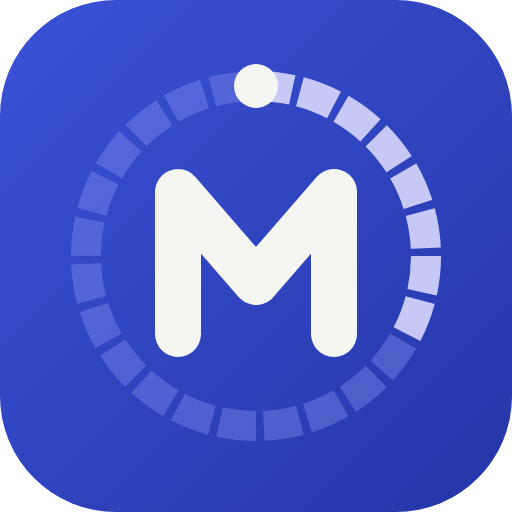
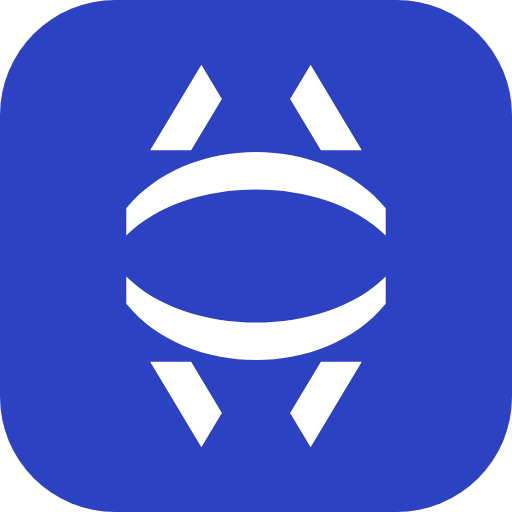
Nova marca "lente" + Home com clima e transporte (#33)
* Nova marca "lente" e Home com clima e transporte

- Marca: dois arcos que afinam nas pontas (pálpebra aberta) e quatro
  colchetes que enquadram a cidade; rotação aplicada nos caminhos, colchetes
  mais grossos e afastados dos arcos para ler em 16–20 px. MarcaMonitora sem
  a prop sinal; ícones do PWA em #2C42C2 (arredondado, quadrado para a
  máscara do sistema e maskable com margem segura de 20%); manifesto e
  DESIGN.md atualizados.
- Home: cartão do clima com a atmosfera compacta (temperatura, condição e
  chuva prevista só se a previsão trouxer) e cartão do transporte com a
  chegada estimada da linha/estação salvas (respeita o sentido salvo, mostra
  fonte e idade do dado); sem dado salvo, os cartões viram convites. Atalho
  discreto para a operação da cidade. Lado a lado no desktop; tempo-limite
  para não ficar preso no carregando.

Claude-Session: https://claude.ai/code/session_0155MRFdRGK3L5RWqqdaPLJp

* Chegada pelo trajeto oficial: fim do "Sem estimativa" com ônibus a caminho

A estimativa em linha reta (/chegada) só conta veículos que se aproximaram
entre duas leituras de 60 s; ônibus parados em estação, sinal ou trânsito
ficavam de fora e a tela mostrava "Sem estimativa agora" (caso relatado:
linha 50 em Terminal Alvorada, sentido Centro Olímpico, com dois BRT a
caminho). Agora todo veículo do sentido casado ao trajeto e ainda antes da
estação entra: pela sequência de paradas (GTFS-Realtime) quando houver,
[…]

Changed region(s): [[0.125, 0.125, 0.875, 0.875]]

diff --git a/app/ui/Home.tsx b/app/ui/Home.tsx
@@ -1,69 +1,111 @@
 "use client";
+/**
+ * Home: abrir o app já responde "vai chover?" e "quanto falta pro meu ônibus?".
+ * Dois cartões no material do app (atmosfera do clima + vidro) e um atalho discreto para a operação da cidade.
+ * Só dados que já existem: local salvo do clima → /tempo; estação e linha salvas da Mobilidade → /chegada (+ /veiculos para o sentido).
+ * Nada inventado: campo ausente some; a chegada é sempre "estimada" e mostra a fonte e a idade do dado.
+ */
 import Link from "next/link";
 import { useEffect, useState } from "react";
-import { CloudSun, BusFront, ChevronRight, Activity } from "lucide-react";
+import { BusFront, ChevronRight, CloudSun } from "lucide-react";
 import { MarcaMonitora } from "./Geometria";
-import { IconeTempo } from "./estados";
-import { J, get, ler } from "./util";
+import { ErrorState, LastUpdated, Skel } from "./estados";
+import { J, get, horaLocal, ler } from "./util";
+import WeatherAtmosphere, { atmosferaDe } from "../clima/atmosfera/WeatherAtmosphere";
+import { mesmoDestino } from "../../src/lib/trajeto";
 
 export default function Home() {
+  const [pronto, setPronto] = useState(false);
   const [local, setLocal] = useState<J | null>(null);
-  const [tempo, setTempo] = useState<J | null>(null);
-  const [mob, setMob] = useState<{ ponto: J | null; linha: string | null }>({ ponto: null, linha: null });
+  const [mob, setMob] = useState<{ ponto: J | null; linha: string | null; sentido: string | null; modo: string | null }>({ ponto: null, linha: null, sentido: null, modo: null });
 
   useEffect(() => {
-    const l = ler<J | null>("monitora:clima:local", null);
-    setLocal(l);
-    setMob({ ponto: ler<J | null>("monitora:mob:ponto", null), linha: ler<string | null>("monitora:mob:linha", null) });
-    if (l) get(`/tempo?lat=${l.lat}&lng=${l.lng}`).then(setTempo);
+    setLocal(ler<J | null>("monitora:clima:local", null));
+    setMob({
+      ponto: ler<J | null>("monitora:mob:ponto", null), linha: ler<string | null>("monitora:mob:linha", null),
+      sentido: ler<string | null>("monitora:mob:sentido", null), modo: ler<string | null>("monitora:mob:modo", null),
+    });
+    setPronto(true);
   }, []);
-  const a = tempo?.calculado?.agora;
 
   return (
-    <main className="page">
-      <div className="row" style={{ gap: 8, color: "var(--text)" }}><MarcaMonitora size={24} /><span className="t-head">Monitora</span></div>
-      <h1 className="t-hero" style={{ margin: "28px 0 6px" }}>O que você quer fazer?</h1>
-      <p className="t-body muted" style={{ margin: 0 }}>Clima, transporte e a operação da cidade agora, com dados abertos.</p>
-
-      <div className="actions">
-        <Link href="/clima" className="action appear">
-          <span className="ico" style={{ background: "color-mix(in srgb, var(--accent) 14%, transparent)", color: "var(--accent)" }}><CloudSun aria-hidden /></span>
-          <span style={{ flex: 1 }}><div className="t-title">Ver o clima</div><div className="t-cap">Agora, próximas horas e próximos dias</div></span>
-          <ChevronRight aria-hidden style={{ color: "var(--text-3)" }} />
-        </Link>
-        <Link href="/mobilidade" className="action appear">
-          <span className="ico" style={{ background: "color-mix(in srgb, var(--text) 14%, transparent)", color: "var(--text)" }}><BusFront aria-hidden /></span>
-          <span style={{ flex: 1 }}><div className="t-title">Acompanhar transporte</div><div className="t-cap">BRT e ônibus ao vivo, chegada estimada</div></span>
-          <ChevronRight aria-hidden style={{ color: "var(--text-3)" }} />
-        </Link>
-        <Link href="/monitor" className="action appear">
-          <span className="ico" style={{ background: "color-mix(in srgb, var(--accent) 14%, transparent)", color: "var(--accent)" }}><Activity aria-hidden /></span>
-          <span style={{ flex: 1 }}><div className="t-title">Ver a operação agora</div><div className="t-cap">Frota observada, qualidade dos dados e chuva</div></span>
-          <ChevronRight aria-hidden style={{ color: "var(--text-3)" }} />
-        </Link>
+    <main className="page home">
+      <div className="home-marca"><MarcaMonitora size={26} /><span>Monitora</span></div>
+      <div className="home-cards">
+        {!pronto ? <><Skel h={188} r={24} /><Skel h={150} r={24} /></> : (
+          <>
+            {local ? <CartaoClima local={local} /> : (
+              <Link href="/clima" className="hc hc-convite appear" aria-label="Ver o clima perto de você">
+                <CloudSun aria-hidden /><span><b>Ver o clima perto de você</b><small>Agora, próximas horas e a semana</small></span><ChevronRight aria-hidden className="seta" />
+              </Link>
+            )}
+            {mob.ponto && mob.linha ? <CartaoTransporte {...mob} ponto={mob.ponto} linha={mob.linha} /> : (
+              <Link href="/mobilidade" className="hc hc-convite appear" style={{ animationDelay: "60ms" }} aria-label="Acompanhar um ônibus ou BRT">
+                <BusFront aria-hidden /><span><b>Acompanhar um ônibus ou BRT</b><small>Chegada estimada na sua estação</small></span><ChevronRight aria-hidden className="seta" />
+              </Link>
+            )}
+          </>
+        )}
       </div>
-
-      {(local || mob.ponto) && (
-        <section className="section">
-          <span className="t-label">Na sua região</span>
-          <div className="surface" style={{ padding: "4px 16px" }}>
-            {local && (
-              <Link href="/clima" className="list-item" aria-label={`Clima em ${local.nome}`}>
-                <span className="ico"><IconeTempo icone={a?.descricao?.icone} dia={a?.dia} /></span>
-                <span className="main"><div className="t-head">{local.nome}</div><div className="t-cap">{a ? a.descricao?.texto ?? "" : "Carregando clima…"}</div></span>
-                <span className="t-title num">{a?.temperaturaC == null ? "" : `${Math.round(a.temperaturaC)}°`}</span>
-              </Link>
-            )}
-            {mob.ponto && (
-              <Link href="/mobilidade" className="list-item">
-                <span className="ico" style={{ color: "var(--text)" }}><BusFront aria-hidden /></span>
-                <span className="main"><div className="t-head">{mob.linha ? `Continuar: linha ${mob.linha}` : mob.ponto.nome}</div><div className="t-cap">{mob.linha ? mob.ponto.nome : "Última estação consultada"}</div></span>
-                <ChevronRight aria-hidden style={{ color: "var(--text-3)" }} />
-              </Link>
-            )}
-          </div>
-        </section>
-      )}
+      <Link href="/monitor" className="home-op">Operação da cidade <ChevronRight aria-hidden /></Link>
     </main>
+  );
+}
+
+function CartaoClima({ local }: { local: J }) {
+  const [t, setT] = useState<J | null>(null);
+  useEffect(() => { get(`/tempo?lat=${local.lat}&lng=${local.lng}`, AbortSignal.timeout(15_000)).then(setT); }, [local]);
+  if (!t) return <Skel h={188} r={24} />;
+  if (t.erro) return <div className="hc"><ErrorState texto="Clima indisponível agora." /></div>;
+  const a = t.calculado?.agora, temp = a?.temperaturaC;
+  const tipo = atmosferaDe(a?.descricao?.icone, a?.dia);
+  // contexto curto: só se a previsão trouxer chuva provável nas próximas 12 h
+  const chuva = (t.calculado?.proximasHoras ?? []).slice(1, 13).find((h: J) => (h.probabilidadeChuvaPct ?? 0) >= 50);
+  const texto = a?.descricao?.texto ?? null;
+  return (
+    <Link href="/clima" className={`hc hc-clima on-${tipo} appear`}
+      aria-label={`Clima em ${local.nome}${temp != null ? `, ${Math.round(temp)} graus` : ""}${texto ? `, ${texto.toLowerCase()}` : ""}${chuva ? `, chuva prevista por volta das ${horaLocal(chuva.inicio).slice(0, 2)} horas` : ""}`}>
+      <WeatherAtmosphere tipo={tipo} />
+      <div className="hc-corpo">
+        <span className="hc-rot">{local.nome}</span>
+        <div className="hc-linha"><span className="hc-num num">{temp == null ? "—" : `${Math.round(temp)}°`}</span>{texto && <span className="hc-txt">{texto}</span>}</div>
+        {chuva && <span className="hc-ctx">Chuva prevista ~{horaLocal(chuva.inicio).slice(0, 2)}h · {chuva.probabilidadeChuvaPct}%</span>}
+      </div>
+    </Link>
+  );
+}
+
+function CartaoTransporte({ ponto, linha, sentido, modo }: { ponto: J; linha: string; sentido: string | null; modo: string | null }) {
+  const [d, setD] = useState<J | null>(null);
+  useEffect(() => {
+    let vivo = true;
+    const carregar = async () => {
+      const [c, v] = await Promise.all([
+        get(`/chegada?linha=${encodeURIComponent(linha)}&lat=${ponto.lat}&lng=${ponto.lng}`, AbortSignal.timeout(15_000)),
+        sentido ? get(`/linhas/${encodeURIComponent(linha)}/veiculos${modo ? `?modo=${modo}` : ""}`, AbortSignal.timeout(15_000)) : Promise.resolve(null),
+      ]);
+      if (vivo) setD({ c, v, em: Date.now() });
+    };
+    carregar();
+    const i = setInterval(() => { if (!document.hidden) carregar(); }, 20_000);
+    return () => { vivo = false; clearInterval(i); };
+  }, [ponto, linha, sentido, modo]);
+  if (!d) return <Skel h={150} r={24} />;
+  if (d.c?.erro) return <div className="hc"><ErrorState texto="Transporte indisponível agora." /></div>;
+  // sentido salvo: só veículos daquele destino (mesma regra da Mobilidade)
+  const ids = sentido && d.v?.observado ? new Set((d.v.observado as J[]).filter((x) => mesmoDestino(x.destino, sentido)).map((x) => `${x.fonte}:${x.veiculo}`)) : null;
+  const chegadas: J[] = d.c?.calculado?.chegadas ?? [];
+  const prox = ids ? chegadas.find((x) => ids.has(`${x.fonte}:${x.veiculo}`)) ?? null : d.c?.calculado?.proxima ?? null;
+  const min = prox?.etaMin != null ? Math.max(1, Math.round(prox.etaMin)) : null;
+  return (
+    <Link href="/mobilidade" className="hc hc-mob appear" style={{ animationDelay: "60ms" }}
+      aria-label={`Linha ${linha}${sentido ? `, sentido ${sentido}` : ""}, em ${ponto.nome}: ${min != null ? `chegada estimada em ${min} minutos` : "sem estimativa agora"}`}>
+      <div className="hc-topo"><span className="line-badge">{linha}</span><span className="hc-rot">{sentido ? `→ ${sentido}` : ponto.nome}</span></div>
+      <div className="hc-linha">
+        {min != null ? <><span className="hc-num num">{min}</span><span className="hc-txt">min</span><span className="hc-sub">chegada estimada em {ponto.nome}</span></>
+          : <span className="hc-txt hc-sem">Nenhum veículo se aproximando de {ponto.nome} agora</span>}
+      </div>
+      <LastUpdated em={prox?.ultimaLeitura ?? d.em} fonte="GPS SMTR" velhoS={60} />
+    </Link>
   );
 }

diff --git a/app/globals.css b/app/globals.css
@@ -666,3 +666,41 @@ button { cursor: pointer; background: none; border: 0; padding: 0; }
 .proximas li { display: flex; justify-content: space-between; gap: 10px; padding: 6px 0 6px 12px; position: relative; font: 500 14px var(--font-ui); }
 .proximas li::before { content: ""; position: absolute; left: -6px; top: 50%; width: 10px; height: 10px; margin-top: -5px; border-radius: 50%; background: var(--surface); box-shadow: inset 0 0 0 2px var(--ultramarine); }
 .proximas li b { font: 600 14px var(--font-num); color: var(--text-2); white-space: nowrap; }
+
+/* ---------- 15. home ---------- */
+.home-marca { display: flex; align-items: center; gap: 9px; color: var(--text); font: 650 18px var(--font-ui); letter-spacing: -.02em; }
+.home-cards { display: grid; gap: 12px; margin-top: 22px; }
+.hc { position: relative; isolation: isolate; overflow: hidden; display: block; border-radius: 24px; padding: 18px 20px; color: var(--text);
+  background: var(--glass-strong); backdrop-filter: var(--glass-blur); -webkit-backdrop-filter: var(--glass-blur);
+  box-shadow: inset 0 1px 0 rgba(255,255,255,.18), inset 0 0 0 1px var(--hairline), 0 14px 30px -22px rgba(8,10,16,.5);
+  transition: transform var(--dur-interact) var(--spring); }
+.hc:active { transform: scale(.985); }
+.hc:focus-visible { outline: 3px solid var(--ultramarine); outline-offset: 3px; }
+.hc-rot { font: 600 13px var(--font-ui); color: var(--text-2); letter-spacing: .01em; }
+.hc-linha { display: flex; align-items: baseline; gap: 10px; margin-top: 6px; flex-wrap: wrap; }
+.hc-num { font: 600 56px/.95 var(--font-num); letter-spacing: -.055em; }
+.hc-txt { font: 500 16px/1.3 var(--font-ui); }
+.hc-sem { color: var(--text-2); font-size: 15px; }
+.hc-sub { flex-basis: 100%; font: 450 13.5px var(--font-ui); color: var(--text-2); }
+.hc-ctx { display: inline-block; margin-top: 10px; padding: 5px 10px; border-radius: 999px; font: 600 12.5px var(--font-ui);
+  background: rgba(255,255,255,.18); }
+/* clima: a mesma atmosfera do hero, compacta; texto branco */
+.hc-clima { min-height: 172px; color: #fff; background: radial-gradient(130% 90% at 88% -6%, var(--atm-a) 0%, transparent 62%), linear-gradient(168deg, var(--atm-b) 0%, var(--atm-c) 100%); }
+.hc-clima .atm { position: absolute; inset: 0; z-index: -1; }
+.hc-clima .hc-rot { color: rgba(255,255,255,.82); }
+.hc-corpo { position: relative; display: flex; flex-direction: column; min-height: 136px; }
+.hc-corpo .hc-ctx { align-self: flex-start; margin-top: auto; }
+.hc-mob .hc-topo { display: flex; align-items: center; gap: 10px; }
+.hc-mob .hc-linha { margin: 10px 0 8px; }
+/* convite (sem dado salvo) */
+.hc-convite { display: flex; align-items: center; gap: 14px; min-height: 88px; }
+.hc-convite > svg:first-child { width: 26px; height: 26px; color: var(--ultramarine); flex: none; }
+.hc-convite span { flex: 1; display: grid; gap: 3px; }
+.hc-convite b { font: 600 16.5px var(--font-ui); letter-spacing: -.01em; }
+.hc-convite small { font: 450 13.5px var(--font-ui); color: var(--text-2); }
+.hc-convite .seta { color: var(--text-3); width: 20px; height: 20px; }
+.home-op { display: inline-flex; align-items: center; gap: 4px; margin-top: 18px; padding: 8px 2px; font: 600 14px var(--font-ui); color: var(--text-2); }
+.home-op svg { width: 16px; height: 16px; }
+.home-op:focus-visible { outline: 2px solid var(--ultramarine); outline-offset: 2px; border-radius: 6px; }
+@media (min-width: 960px) { .home-marca { display: none; } .home-cards { margin-top: 0; } }
+@media (min-width: 760px) { .home { max-width: 880px; } .home-cards { grid-template-columns: 1fr 1fr; align-items: stretch; } .home-cards > * { min-height: 188px; } }

diff --git a/app/mobilidade/MobilidadeApp.tsx b/app/mobilidade/MobilidadeApp.tsx
@@ -173,8 +173,12 @@ export default function MobilidadeApp() {
 
   // chegadas do sentido escolhido (a estimativa é por veículo; filtramos pelos veículos do sentido)
   const idsSentido = new Set(lista.map((v) => v.id));
-  const chegadas: J[] = (chegada?.calculado?.chegadas ?? []).filter((c: J) => !sentidoValido || idsSentido.has(`${c.fonte}:${c.veiculo}`));
-  const prox: J | null = sentidoValido ? chegadas[0] ?? null : chegada?.calculado?.proxima ?? null;
+  const chegadasLinhaReta: J[] = (chegada?.calculado?.chegadas ?? []).filter((c: J) => !sentidoValido || idsSentido.has(`${c.fonte}:${c.veiculo}`));
+  // Chegada pelo TRAJETO (não depende de o veículo estar andando na hora): todo veículo do sentido, casado ao trajeto
+  // oficial e ainda ANTES da estação, entra com o tempo programado do trecho; com viagem oficial (GTFS-Realtime),
+  // usa a sequência de paradas. A estimativa em linha reta da /chegada fica só para quem não tem trajeto.
+  const chegadas: J[] = useMemo(() => mesclarChegadas(ponto, lista, trajetoVisivel, chegadasLinhaReta), [ponto, lista, trajetoVisivel, chegada]); // eslint-disable-line react-hooks/exhaustive-deps
+  const prox: J | null = chegadas[0] ?? null;
   const ehBrt = ponto?.fonte === "brt" || lista.some((v) => v.fonte === "brt");
   const viagem = useMemo(() => viagemAte(ponto, sentidoValido, paradasLinha, desce), [ponto, sentidoValido, paradasLinha, desce]);
   // espera no ponto de embarque: chegada do próximo ônibus ou, no terminal de origem, a próxima saída
@@ -821,4 +825,27 @@ function Destino({ v, valor, onChange, espera }: { v: Viagem; valor: string | nu
       {e && <p className="t-meta" style={{ margin: "6px 2px 0" }}>Viagem no ritmo programado da linha (GTFS){espera == null ? "; sem estimativa de espera agora" : ""}.</p>}
     </div>
   );
+}
+
+/** Chegadas na estação: pelo trajeto oficial (preferido) + linha reta (/chegada) para quem ficar de fora; ordenadas. */
+function mesclarChegadas(ponto: Ponto | null, frota: J[], trajetos: Trajeto[] | null | undefined, linhaReta: J[]): J[] {
+  if (!ponto) return linhaReta;
+  const porId = new Map<string, J>(), avaliados = new Set<string>();
+  for (const v of frota) {
+    if (v.routeState !== "ON_ROUTE" && v.routeState !== "UNCERTAIN") continue;
+    // 1) viagem oficial: a estação está na lista de próximas paradas
+    const naSeq = (v.viagem?.proximas as J[] | undefined)?.find((p) => p.estacao === ponto.id || p.nome === ponto.nome);
+    if (naSeq) { avaliados.add(v.id); porId.set(v.id, { fonte: v.fonte, veiculo: v.veiculo, etaMin: naSeq.min, ultimaLeitura: v.em, metodo: "paradas" }); continue; }
+    // 2) trajeto oficial no ritmo programado
+    const t = (trajetos ?? []).find((x) => x.shapeId && x.shapeId === v.shapeId);
+    if (!t?.duracaoProgramadaS) continue;
+    const acc = acumulado(t.coords), total = acc[acc.length - 1];
+    const est = projetar(ponto.lat, ponto.lng, t.coords, acc), eu = projetar(v.lat, v.lng, t.coords, acc);
+    if (!est || !eu || est.distM > 300) continue; // estação fora deste trajeto
+    avaliados.add(v.id);
+    if (eu.s > est.s + 50) continue; // já passou da estação
+    porId.set(v.id, { fonte: v.fonte, veiculo: v.veiculo, etaMin: ((est.s - eu.s) / total) * t.duracaoProgramadaS / 60, ultimaLeitura: v.em, distanciaM: Math.round(est.s - eu.s), metodo: "trajeto" });
+  }
+  for (const c of linhaReta) { const id = `${c.fonte}:${c.veiculo}`; if (!porId.has(id) && !avaliados.has(id)) porId.set(id, { ...c, metodo: "linha-reta" }); }
+  return [...porId.values()].filter((c) => c.etaMin != null).sort((a, b) => a.etaMin - b.etaMin);
 }

diff --git a/app/ui/Geometria.tsx b/app/ui/Geometria.tsx
@@ -1,16 +1,23 @@
 /**
  * Linguagem geométrica do Monitora: círculos, arcos e interseções em módulos.
- * Marca: dois círculos que se cruzam (lugar + movimento) e um arco de trajeto; o ponto de sinal (Lime) é o "agora".
+ * Marca: "lente" — dois arcos que afinam nas pontas (pálpebra aberta: observar) e quatro colchetes que enquadram a cidade.
  * Órbita: arcos concêntricos para carregamento — gira devagar (interação), para com reduced-motion.
  */
-/** Marca do Monitora: mostrador de 24 h em gomos (o "relógio do céu"), um M de traço único (trajeto) e o ponto "agora". */
-export function MarcaMonitora({ size = 22, sinal = true }: { size?: number; sinal?: boolean }) {
+/**
+ * Marca do Monitora — "lente": dois arcos que afinam nas pontas formam uma pálpebra aberta (observar)
+ * e quatro colchetes por fora enquadram a cidade. Simétrica nos dois eixos; viewBox 120; cor = currentColor.
+ * Mesmos caminhos de public/icone.svg (lá em branco, escala 0,8, sobre #2C42C2).
+ */
+export const MARCA_CAMINHOS = [
+  "M 98 46 C 80 24 40 24 22 46 L 22 54 C 40 36 80 36 98 54Z",
+  "M 98 74 C 80 96 40 96 22 74 L 22 66 C 40 84 80 84 98 66Z",
+  "M 76 4 L 91 29 L 79 29 L 70 14Z M 76 116 L 91 91 L 79 91 L 70 106Z M 44 4 L 29 29 L 41 29 L 50 14Z M 44 116 L 29 91 L 41 91 L 50 106Z",
+] as const;
+
+export function MarcaMonitora({ size = 22 }: { size?: number }) {
   return (
-    <svg width={size} height={size} viewBox="0 0 24 24" fill="none" aria-hidden>
-      <circle cx="12" cy="12" r="9.6" stroke="currentColor" strokeOpacity=".3" strokeWidth="2" strokeDasharray="3.4 1.6" transform="rotate(-90 12 12)" />
-      <circle cx="12" cy="12" r="9.6" stroke="currentColor" strokeWidth="2" strokeDasharray="3.4 1.6 3.4 1.6 3.4 1.6 3.4 60" transform="rotate(-90 12 12)" />
-      <path d="M8.2 15.6V8.6L12 13l3.8-4.4v7" stroke="currentColor" strokeWidth="2.2" strokeLinecap="round" strokeLinejoin="round" />
-      {sinal && <circle cx="12" cy="2.4" r="1.6" fill="var(--accent)" />}
+    <svg width={size} height={size} viewBox="0 0 120 120" fill="currentColor" aria-hidden>
+      {MARCA_CAMINHOS.map((d) => <path key={d} d={d} />)}
     </svg>
   );
 }

diff --git a/docs/DESIGN.md b/docs/DESIGN.md
@@ -3,6 +3,14 @@
 **Espaço:** mundo (mapa) embaixo · material (vidro) no meio · informação (tipografia) em cima.
 **Ordem:** conteúdo → material → movimento. Cor comunica estado; a interface é neutra.
 
+## Marca
+- **"Lente":** dois arcos deitados que afinam nas pontas formam uma pálpebra aberta (observar); quatro colchetes por fora,
+  em cima e embaixo, enquadram a cidade. Simétrica nos dois eixos, sem ponto central. Caminhos em `MARCA_CAMINHOS`
+  (`app/ui/Geometria.tsx`), viewBox 120, `currentColor`. Colchetes engrossados e afastados dos arcos para ler em 16–20 px.
+- **Ícone do app:** fundo `#2C42C2`, cantos `rx=27` (viewBox 120), marca branca em escala 0,8 centralizada (`public/icone.svg`).
+  PNG: `icone-512-arredondado.png`, `apple-touch-icon.png` (quadrado, o sistema arredonda), `favicon-32.png`;
+  *maskable* `icone-192.png` / `icone-512.png` com a marca em escala 0,6 (margem segura de 20%).
+
 ## Cor (`app/ui/tokens.ts` = fonte; espelhada em `app/globals.css`)
 | Token | Hex | Papel |
 |---|---|---|
